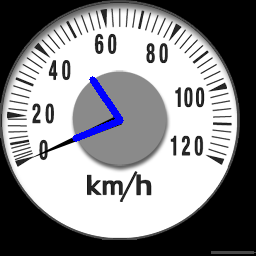
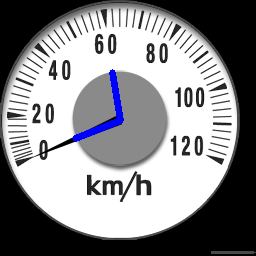
addtensor

Changed region(s): [[0.3438, 0.25, 0.5, 0.4688]]

diff --git a/meterjudge/meterjudge.py b/meterjudge/meterjudge.py
@@ -13,7 +13,7 @@ if __name__ == '__main__':
     
     # 画像の読み込み
     img_src1 = cv2.imread("meter_0.png", 0)
-    img_src2 = cv2.imread("meter_43_5.png", 0)
+    img_src2 = cv2.imread("meter_60.png", 0)
     height, width = img_src1.shape[:2]
     # 背景画像との差分を算出
     img_diff = cv2.absdiff(img_src2, img_src1)
@@ -44,16 +44,22 @@ if __name__ == '__main__':
                 dst[y, x] = colors[labelImage[y, x]]
             else:
                 dst[y, x] = [0, 0, 0]
+    thetadiff=[180,-180]
     for j in range(1, nLabels + 1):
         x,y,w,h,size = contours[j-1]
         if rangeval[0] < size < rangeval[1]:
             x,y = GoCs[j-1]
-            theta = int(math.atan2(int(x)-center[0],int(y)-center[1])*180/math.pi)
-            print("theta="+str(theta))
+            theta = int(math.atan2(int(x)-center[0],-int(y)+center[1])*180/math.pi)
+            if theta > thetadiff[1]:
+                thetadiff[1]=theta
+            if theta < thetadiff[0]:
+                thetadiff[0]=theta
+            print("theta = "+str(theta))
             dst = cv2.circle(dst, (int(x),int(y)), 2, (0,0,255), -1)
             img_src1=cv2.line(img_src1, (center[0],center[1]),(int(x),int(y)), (255,0,0), 5)
 
     # 表示
+    print("diff = "+str(thetadiff[1]-thetadiff[0]))
     cv2.imwrite("imgdist.png", dst)
     cv2.imwrite("imgorg1.png", img_src1)
     cv2.imwrite("result.png", img_diffm)

diff --git a/aws/upload.py b/aws/upload.py
@@ -1,0 +1,6 @@
+# aws rekognition detect-labels --image '{"S3Object":{"Bucket":"scorer-us-east-1","Name":"car.jpg"}}' --region=us-east-1
+import boto3
+strfile = "car.jpg"
+bucket_name = 'scorer'
+s3_client = boto3.client('s3')
+s3_client.upload_file('/opt/scorer/home/dev/scorer-python/aws/' + strfile ,bucket_name, strfile)

diff --git a/tensorFlow/tensor.py b/tensorFlow/tensor.py
@@ -1,1 +1,1 @@
-#http://qiita.com/PonDad/items/c5419c164b4f2efee368#keras-%E3%82%A4%E3%83%B3%E3%82%B9%E3%83%88%E3%83%BC%E3%83%AB
+#cd ../
